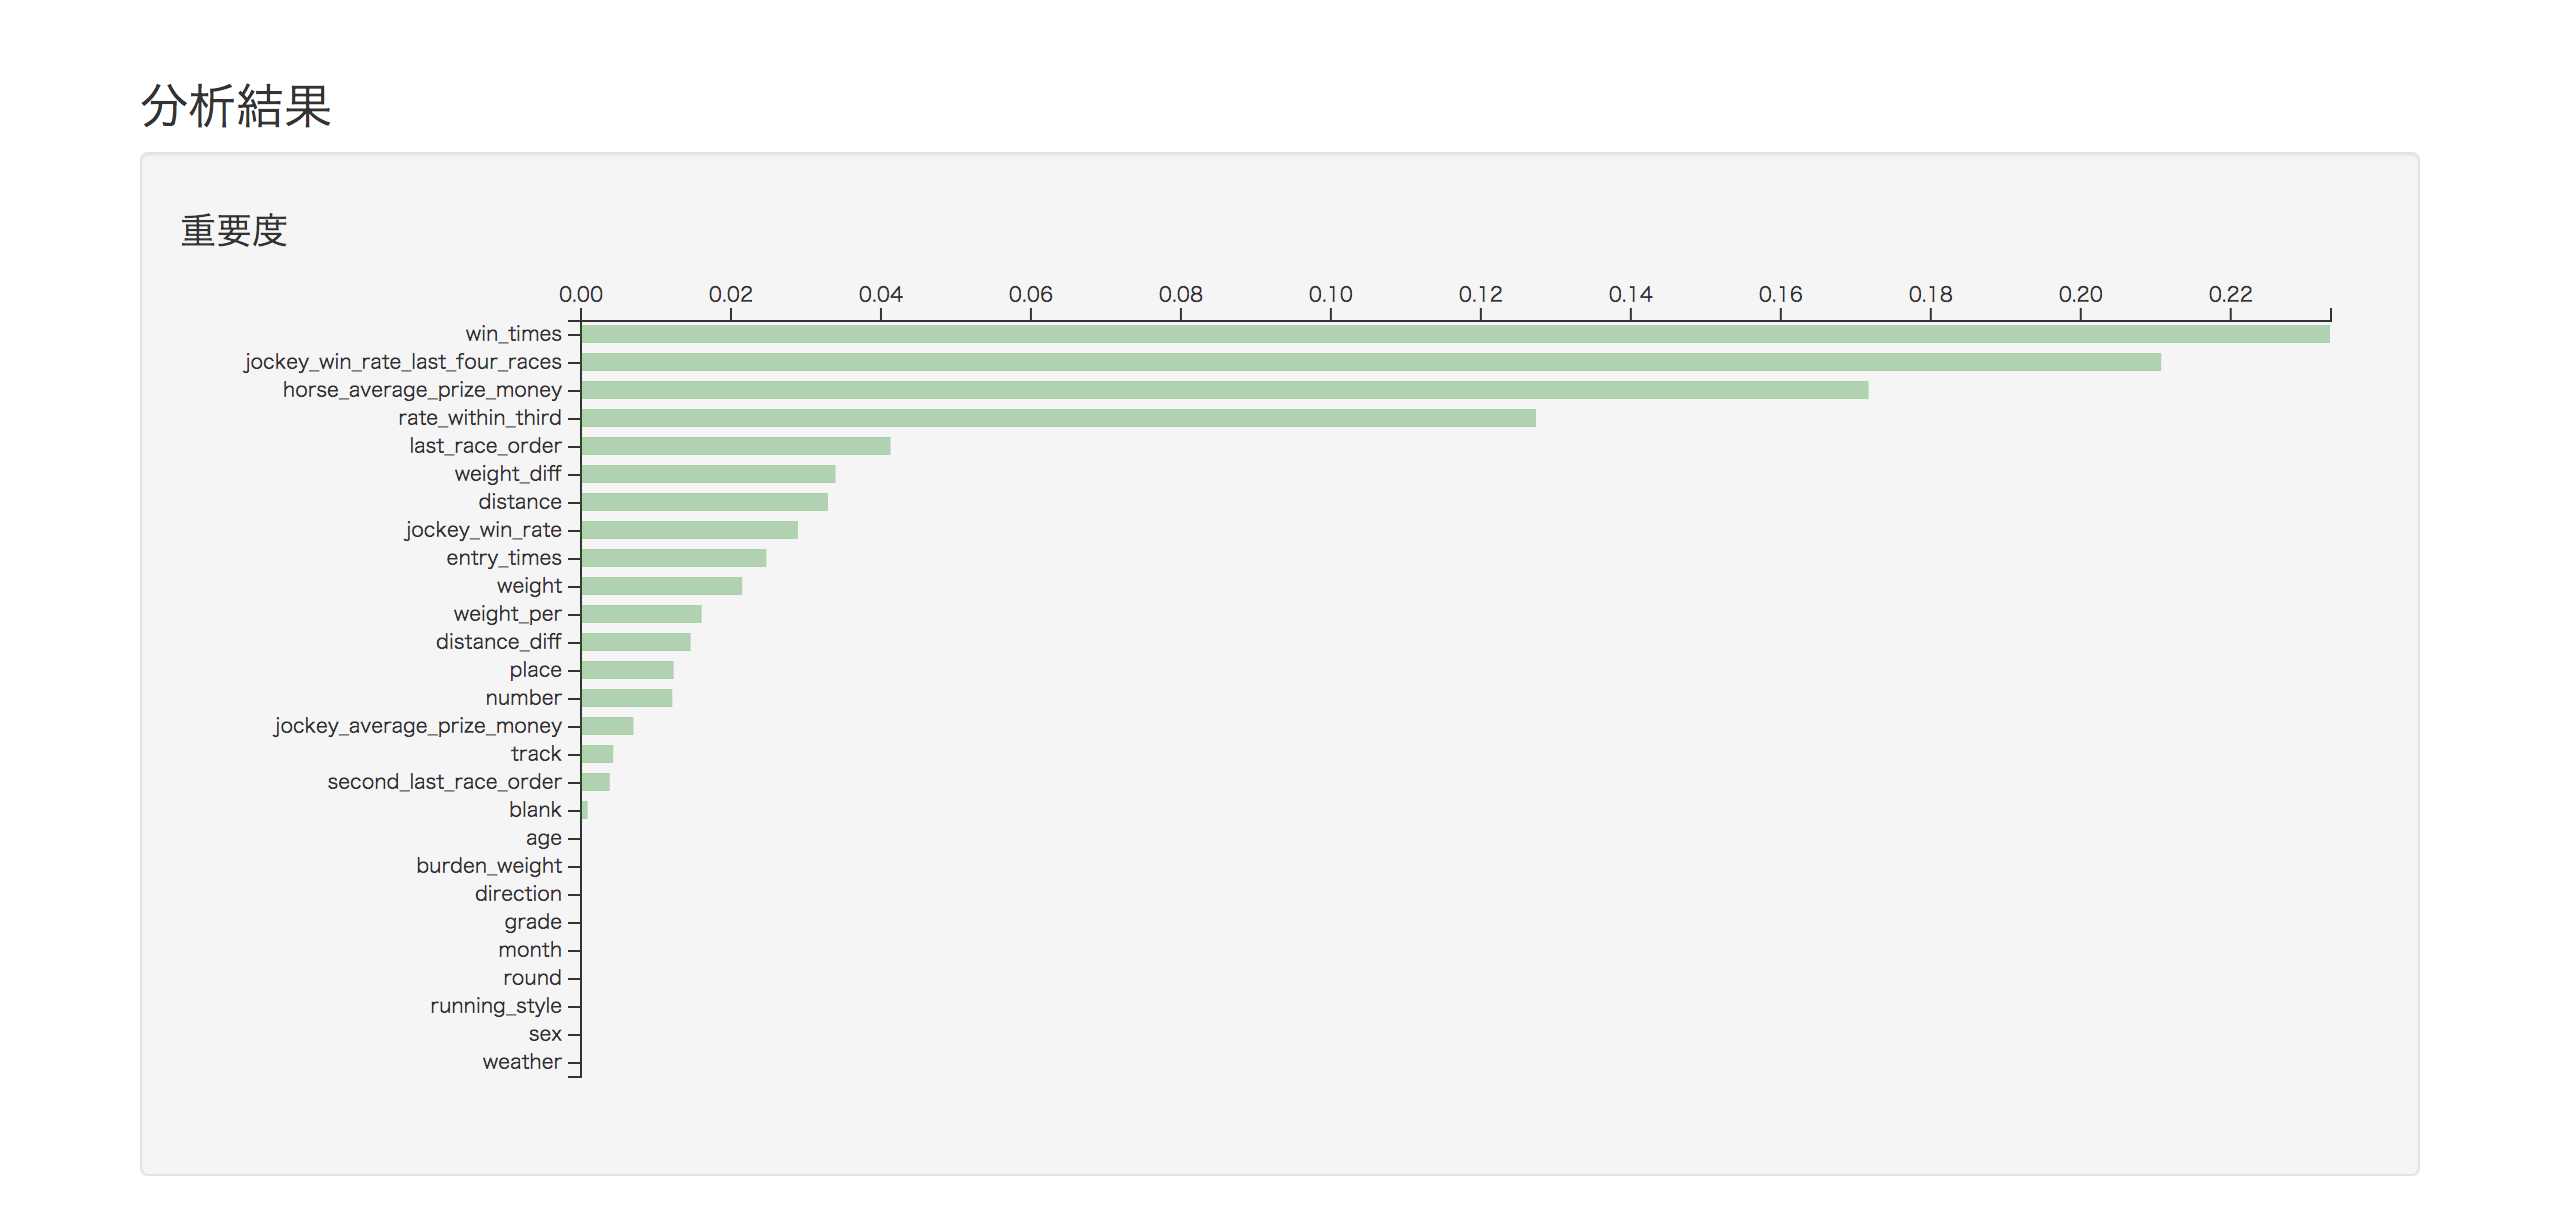
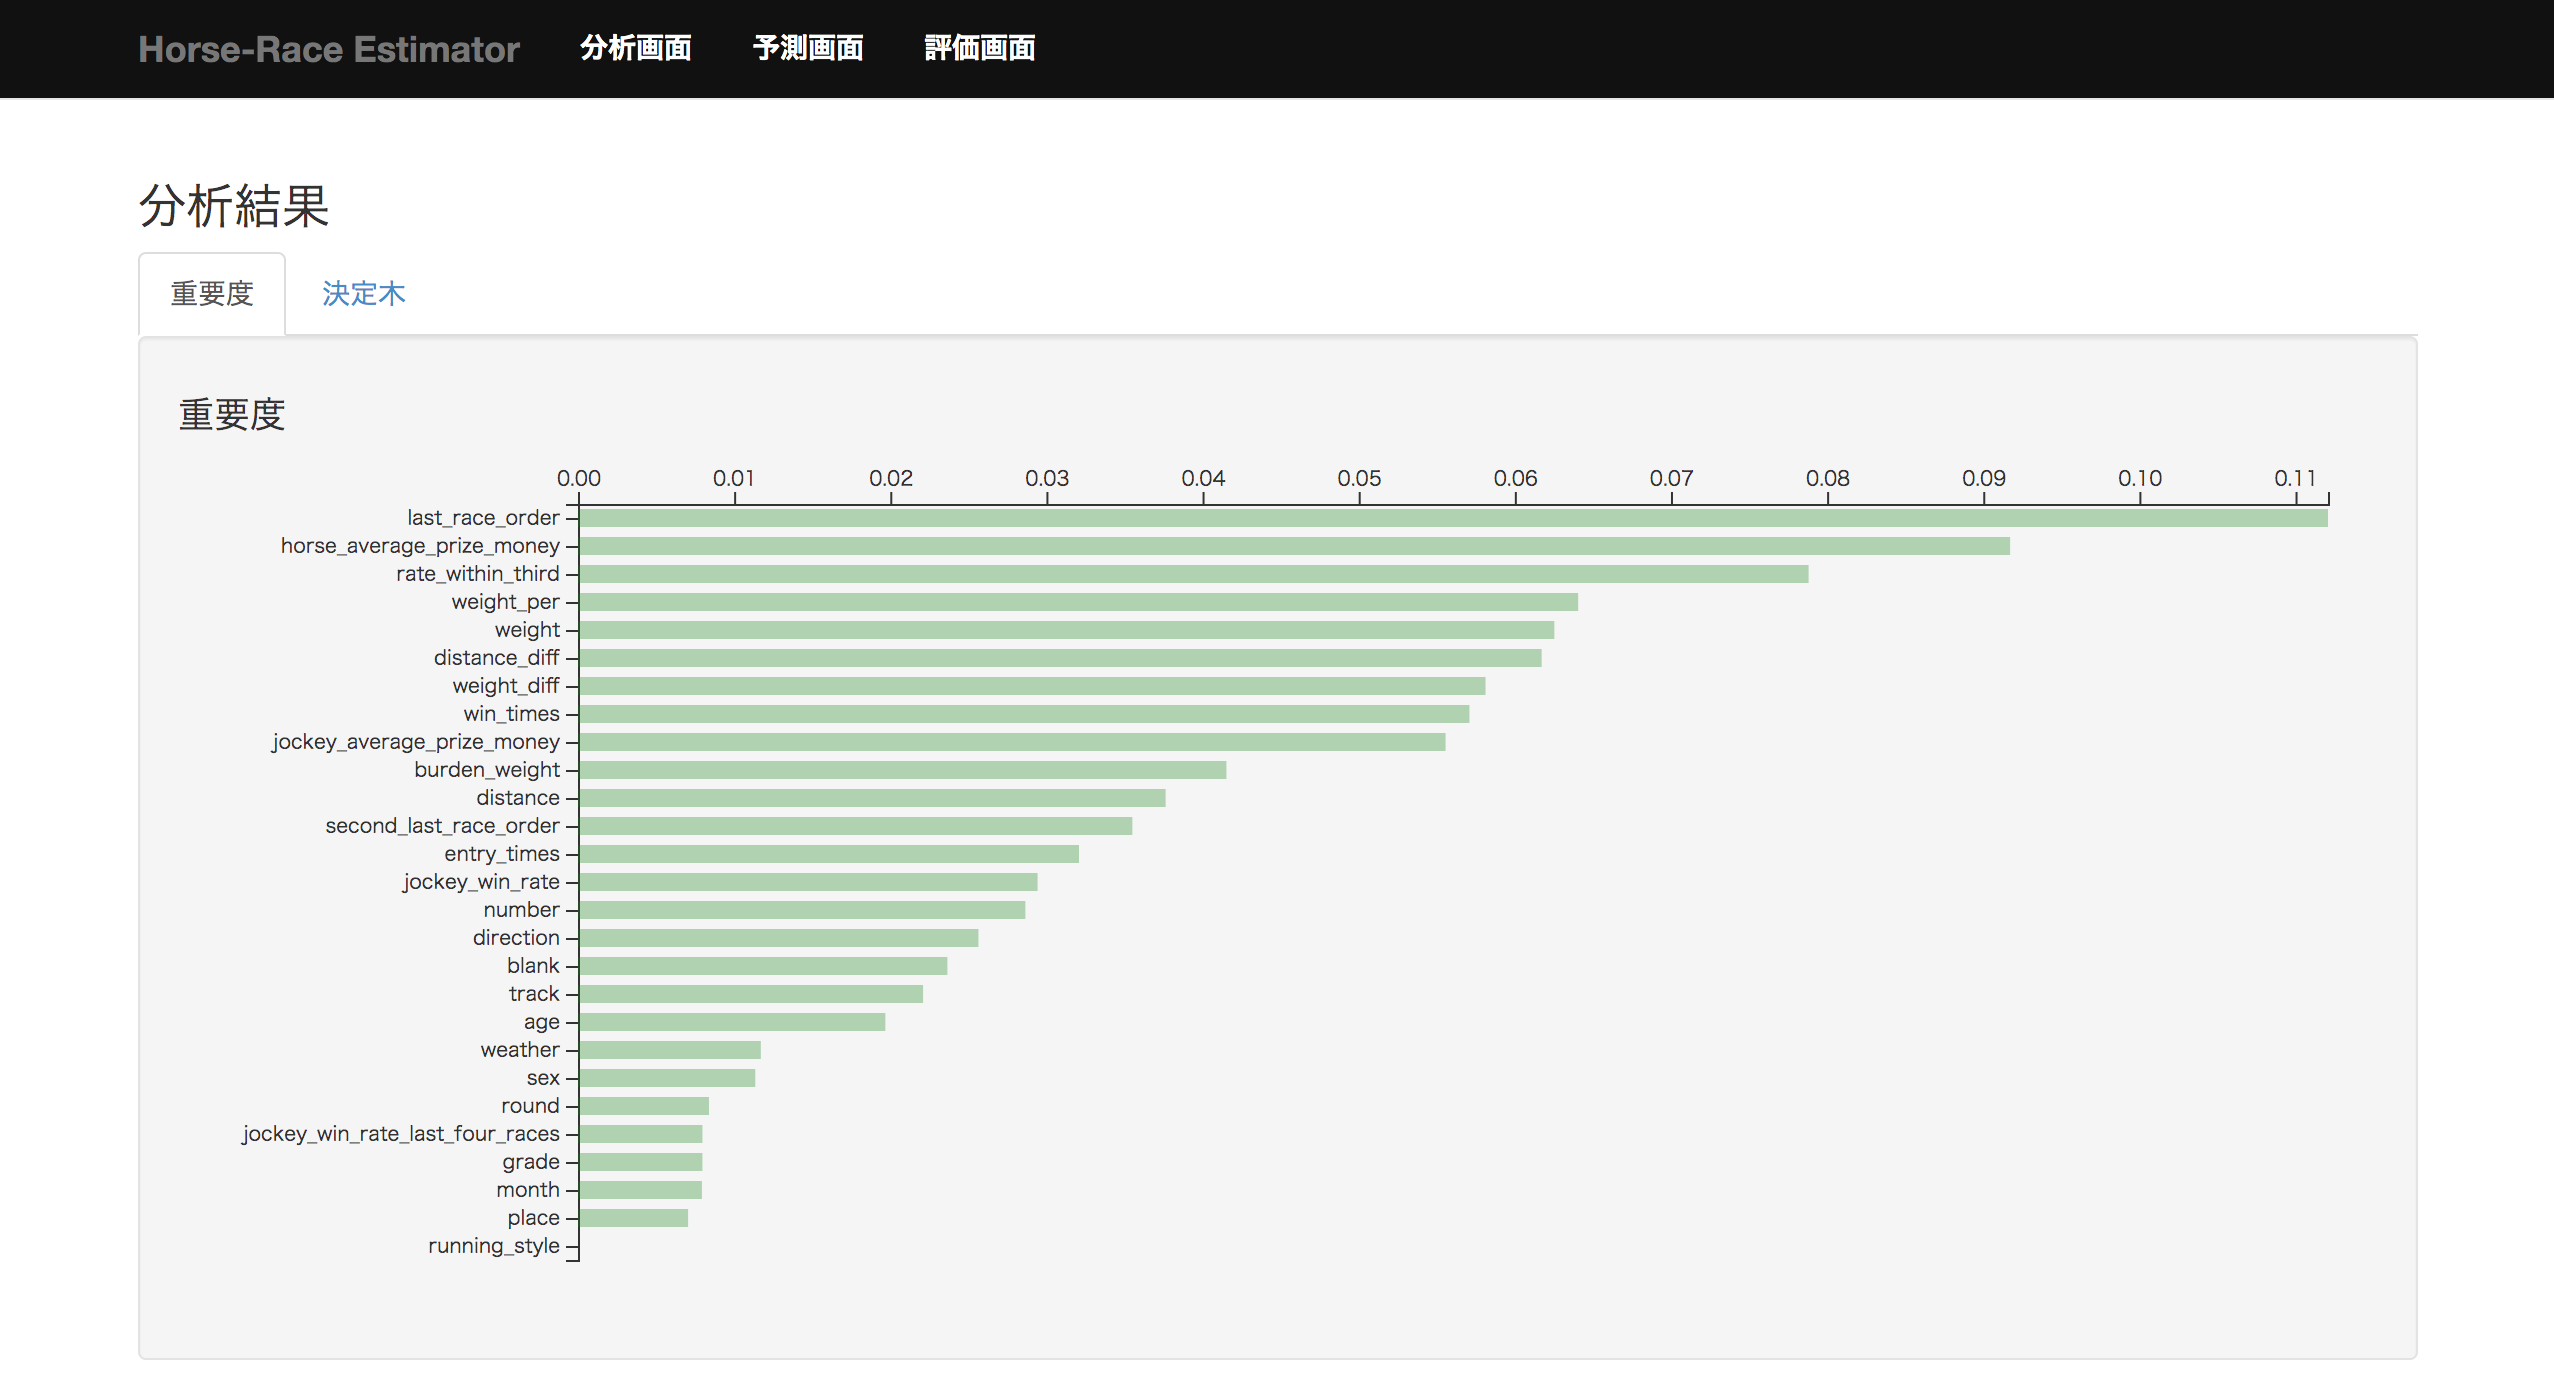
update images and fix spec

Changed region(s): [[0.0619, 0.2442, 0.928, 0.9158], [0.0, 0.0, 1.0, 0.2137]]

diff --git a/horse-race_estimator/alterf/external.rst b/horse-race_estimator/alterf/external.rst
@@ -145,12 +145,17 @@
      - root: 根ノード
      - split: 中間ノード
      - leaf: 葉ノード"
-   feature_name,string,分岐条件で利用する素性, :ref:`den-int-sch-features` 参照
-   threshold,float,どちらのノードに分岐するかを決める閾値,
-   left_node_id,integer,左子ノードのID,"- :ref:`alt-ext-res-ana-dec-node` のノードID
+   group,string,親ノードの閾値より小さいか大きいかを表す,"- 以下のいずれか
+
+     - less: 小さい
+     - greater: 大きい
+
+   - 根ノードの場合はnull"
+   feature_name,string,分岐条件で利用する素性,"- :ref:`den-int-sch-features` 参照
    - 葉ノードの場合はnull"
-   right_node_id,integer,右子ノードのID,"- :ref:`alt-ext-res-ana-dec-node` のノードID
-   - 葉ノードの場合はnull"
+   threshold,float,どちらのノードに分岐するかを決める閾値,- 葉ノードの場合はnull
+   parent_node_id,integer,左子ノードのID,"- :ref:`alt-ext-res-ana-dec-node` のノードID
+   - 根ノードの場合はnull"
 
 .. _alt-ext-res-prediction:
 
@@ -329,6 +334,9 @@
 
 分析結果画面
 ^^^^^^^^^^^^
+
+.. image:: images/analysis_result.png
+   :alt: 分析結果画面
 
 - タブで表示する情報を切り替えられる
 

diff --git a/horse-race_estimator/alterf/internal.rst b/horse-race_estimator/alterf/internal.rst
@@ -40,7 +40,7 @@ MVCモデルを利用する
 
     - 決定木を管理するクラス
 
-  - Analysis::Result::DecisionTreeNode
+  - Analysis::Result::DecisionTree::Node
 
     - 決定木のノードを管理するクラス
 
@@ -486,10 +486,10 @@ analysis_result_decision_tree_nodesテーブル
    analysis_result_decision_tree_id,INTEGER,analysis_result_decision_treesテーブルの内部ID,○
    node_id,INTEGER,決定木のノードID,○
    node_type,STRING,ノードの種別,○
-   feature_name,STRING,素性名,○
-   threshold,FLOAT,閾値,○
-   left_node_id,INTEGER,左子ノードのID,
-   right_node_id,INTEGER,右子ノードのID,
+   group,STRING,親ノードの閾値に対するグループ,
+   feature_name,STRING,素性名,
+   threshold,FLOAT,閾値,
+   parent_id,INTEGER,親ノードの内部ID,
    created_at,DATETIME,決定木のノード情報の作成日時,○
    updated_at,DATETIME,決定木のノード情報の更新日時,○
 
